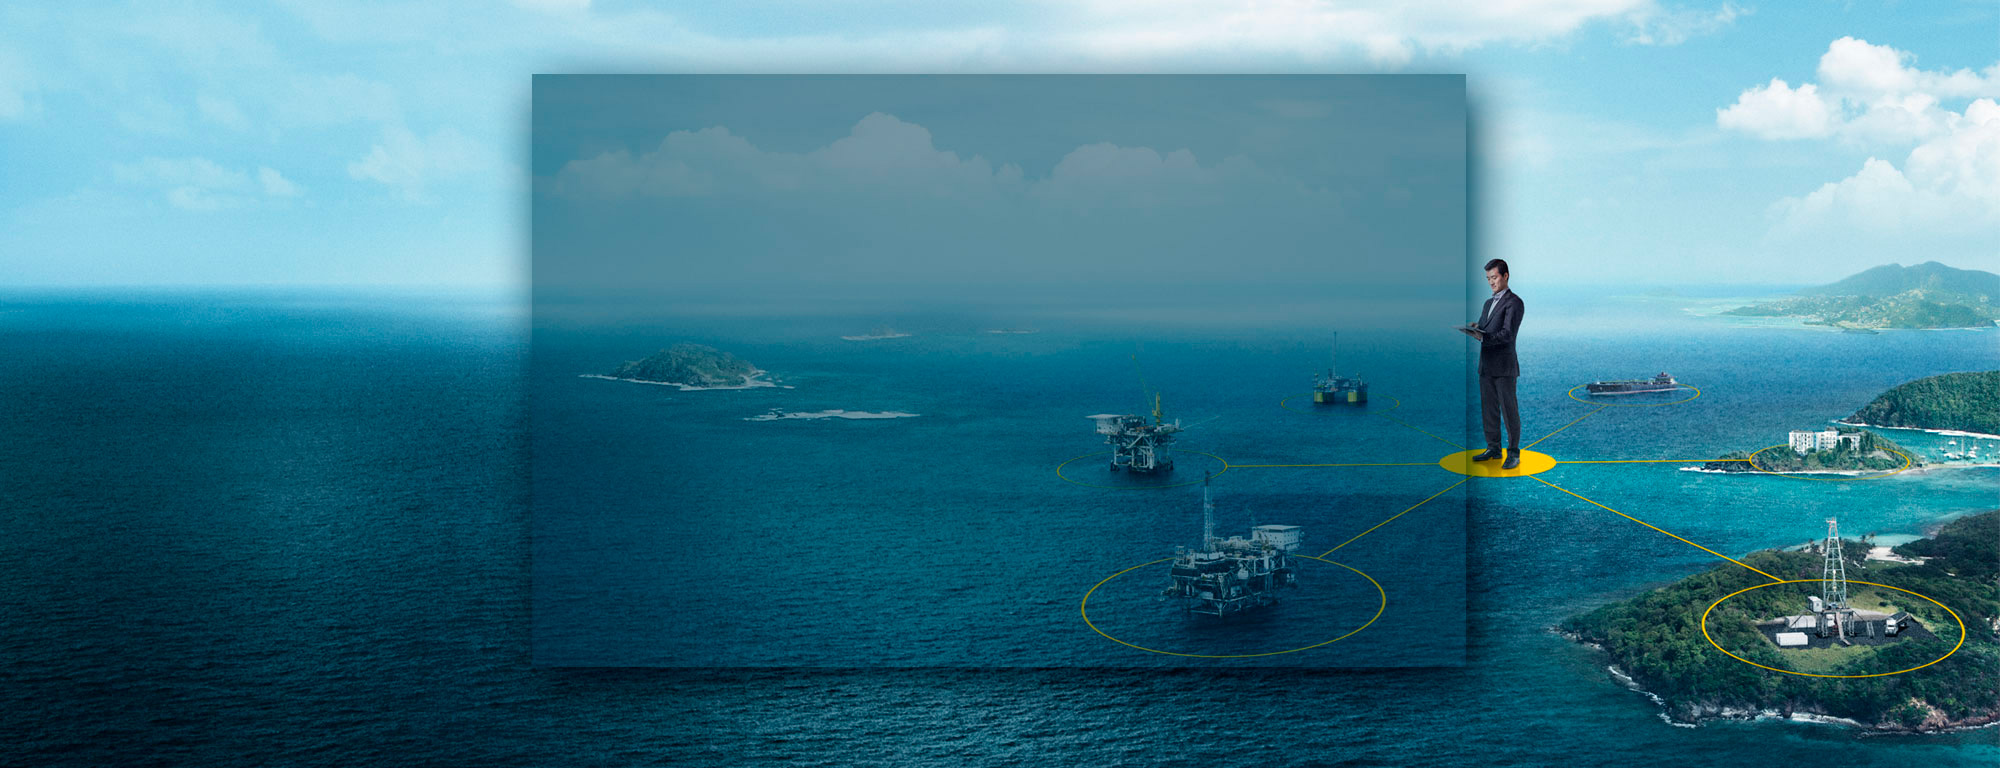
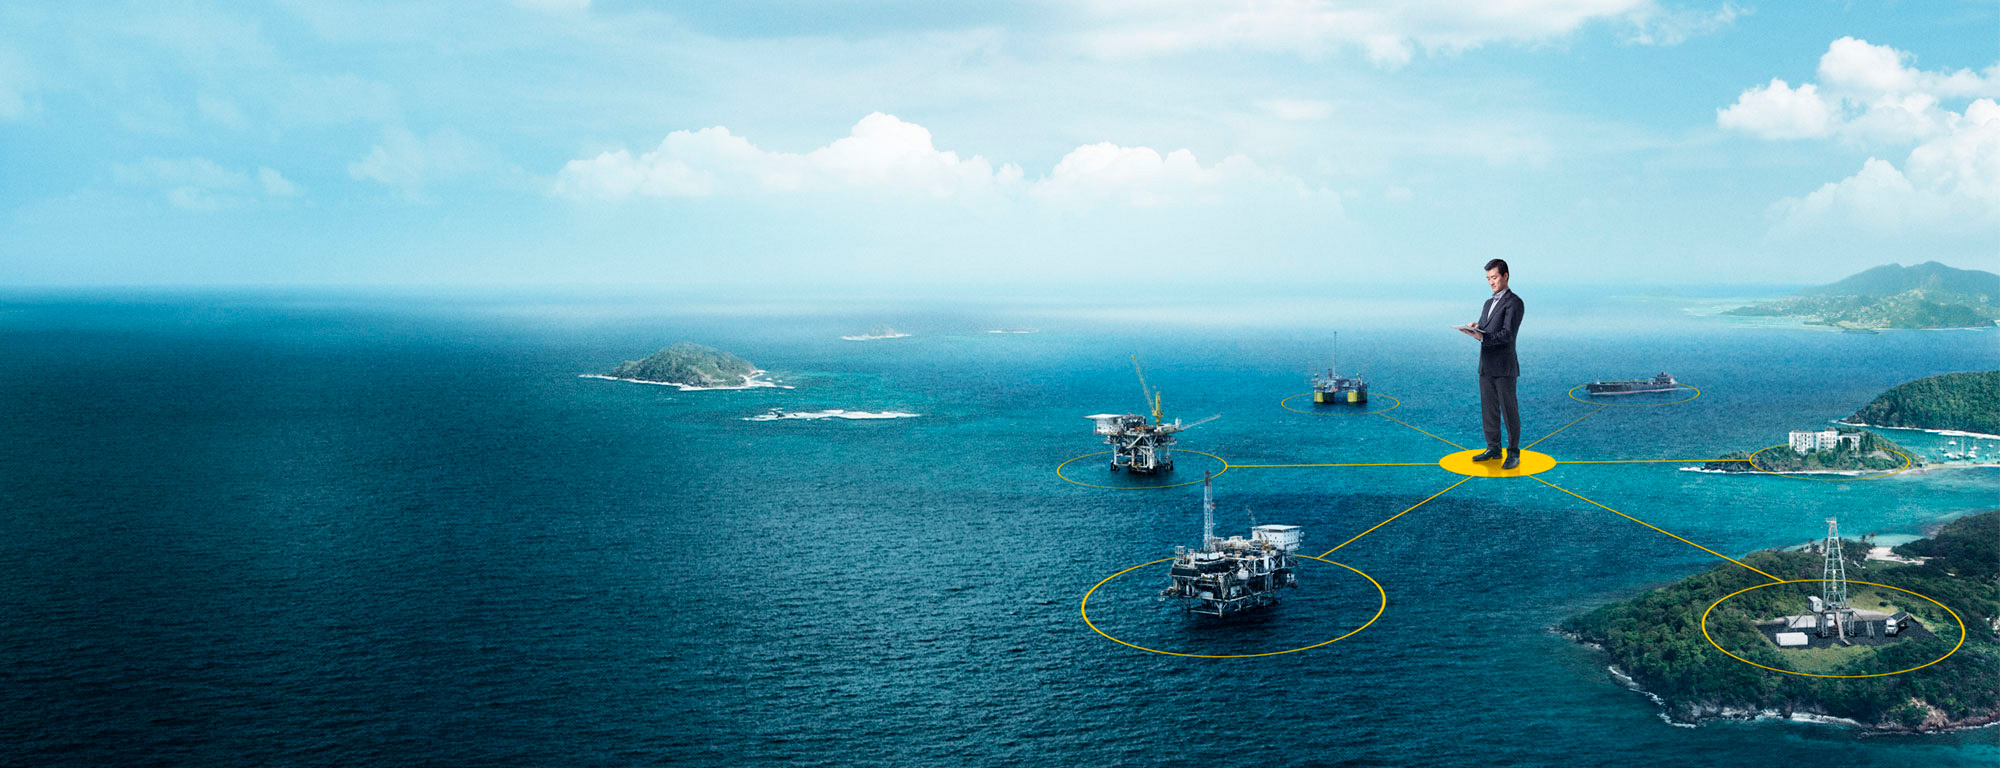
SWWEB-578 update Kongsberg images
commit ac7dcb5516a0f6becfcb939c2a9d15ef468ee276
Author: Scott <scott@designsbysm.com>
Date:   Tue Oct 21 14:40:22 2014 -070z

diff --git a/softWrench.sW4.Web/Content/styles/kongsberg/signin.css b/softWrench.sW4.Web/Content/styles/kongsberg/signin.css
@@ -1,5 +1,5 @@
 .page-signin {
-    background: #122c51 url(../../Images/kongsberg/signin.jpg) no-repeat center top fixed;
+    background: #b0dae9 url(../../Images/kongsberg/signin.jpg) no-repeat center top fixed;
     -webkit-background-size: cover;
     -moz-background-size: cover;
     -o-background-size: cover;
@@ -7,6 +7,5 @@
 }
 
     .page-signin .form-signin {
-        background-color: none;
-        box-shadow: none;
+        background-color: rgba(1, 45, 68, 0.50);
     }
